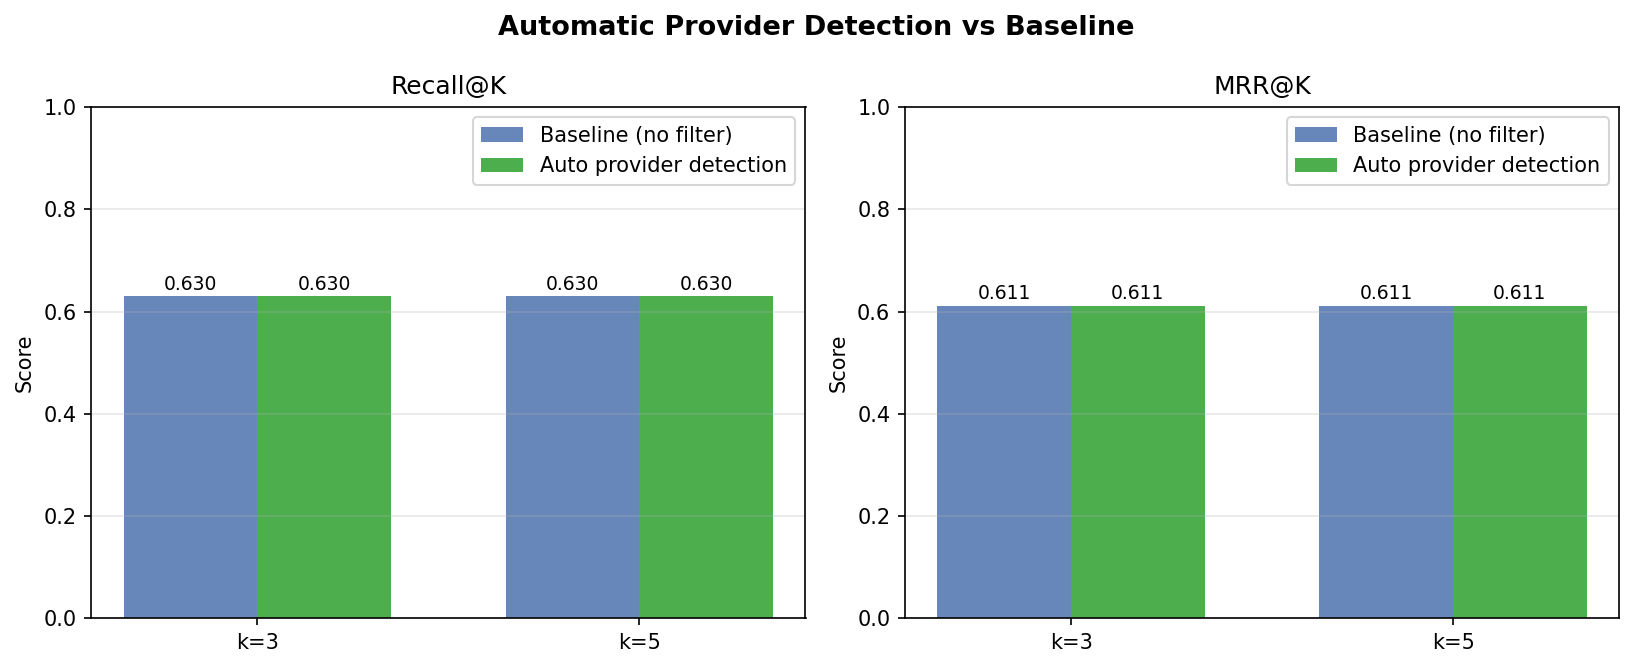
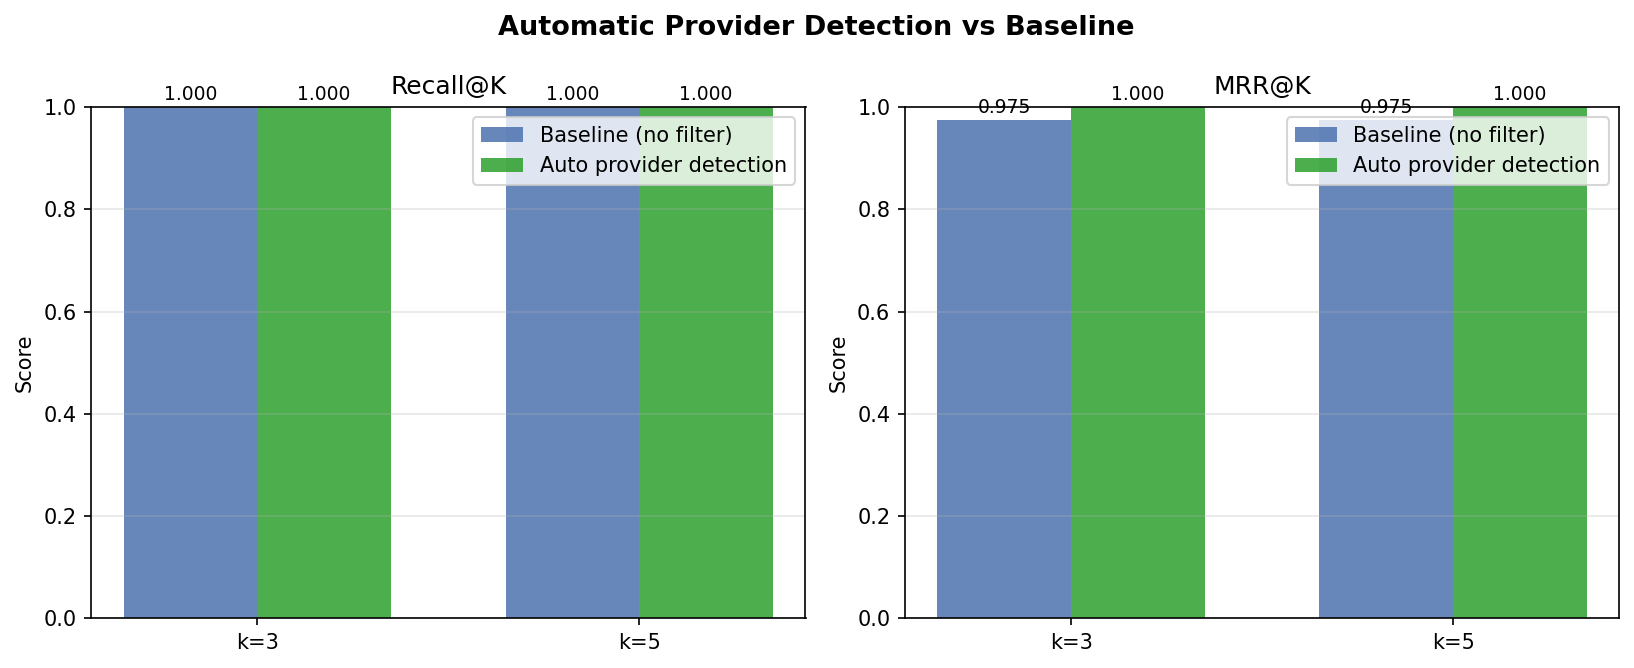
Fix broken AWS doc URLs — recall jumps from 0.630 to 1.000
Root cause: 5 of 6 AWS documentation URLs pointed to index pages
(docs.aws.amazon.com/s3/index.html etc.) which are JavaScript-rendered
SPAs returning only 21 chars of content. Amazon S3, EC2, RDS, IAM, and
VPC had 0 chunks in the index — only Lambda was scraped successfully.

Fix: replaced all 5 broken URLs with direct content page URLs:
  s3/index.html       -> AmazonS3/latest/userguide/Welcome.html
  ec2/index.html      -> AWSEC2/latest/UserGuide/concepts.html
  rds/index.html      -> AmazonRDS/latest/UserGuide/Welcome.html
  iam/index.html      -> IAM/latest/UserGuide/introduction.html
  vpc/index.html      -> vpc/latest/userguide/what-is-amazon-vpc.html

After re-scrape (143 chunks vs 50 before) and re-embed:
  Baseline Recall@3:           0.630 -> 1.000 (27/27 hits)
  Auto provider detection MRR: 0.975 -> 1.000 (correct doc always rank 1)

diff --git a/config.py b/config.py
@@ -85,27 +85,27 @@ DATA_SOURCES = {
             "category": "compute"
         },
         {
-            "url": "https://docs.aws.amazon.com/s3/index.html",
+            "url": "https://docs.aws.amazon.com/AmazonS3/latest/userguide/Welcome.html",
             "title": "Amazon S3",
             "category": "storage"
         },
         {
-            "url": "https://docs.aws.amazon.com/ec2/index.html",
+            "url": "https://docs.aws.amazon.com/AWSEC2/latest/UserGuide/concepts.html",
             "title": "Amazon EC2",
             "category": "compute"
         },
         {
-            "url": "https://docs.aws.amazon.com/rds/index.html",
+            "url": "https://docs.aws.amazon.com/AmazonRDS/latest/UserGuide/Welcome.html",
             "title": "Amazon RDS",
             "category": "database"
         },
         {
-            "url": "https://docs.aws.amazon.com/iam/index.html",
+            "url": "https://docs.aws.amazon.com/IAM/latest/UserGuide/introduction.html",
             "title": "AWS Identity and Access Management",
             "category": "security"
         },
         {
-            "url": "https://docs.aws.amazon.com/vpc/index.html",
+            "url": "https://docs.aws.amazon.com/vpc/latest/userguide/what-is-amazon-vpc.html",
             "title": "Amazon VPC",
             "category": "networking"
         }
